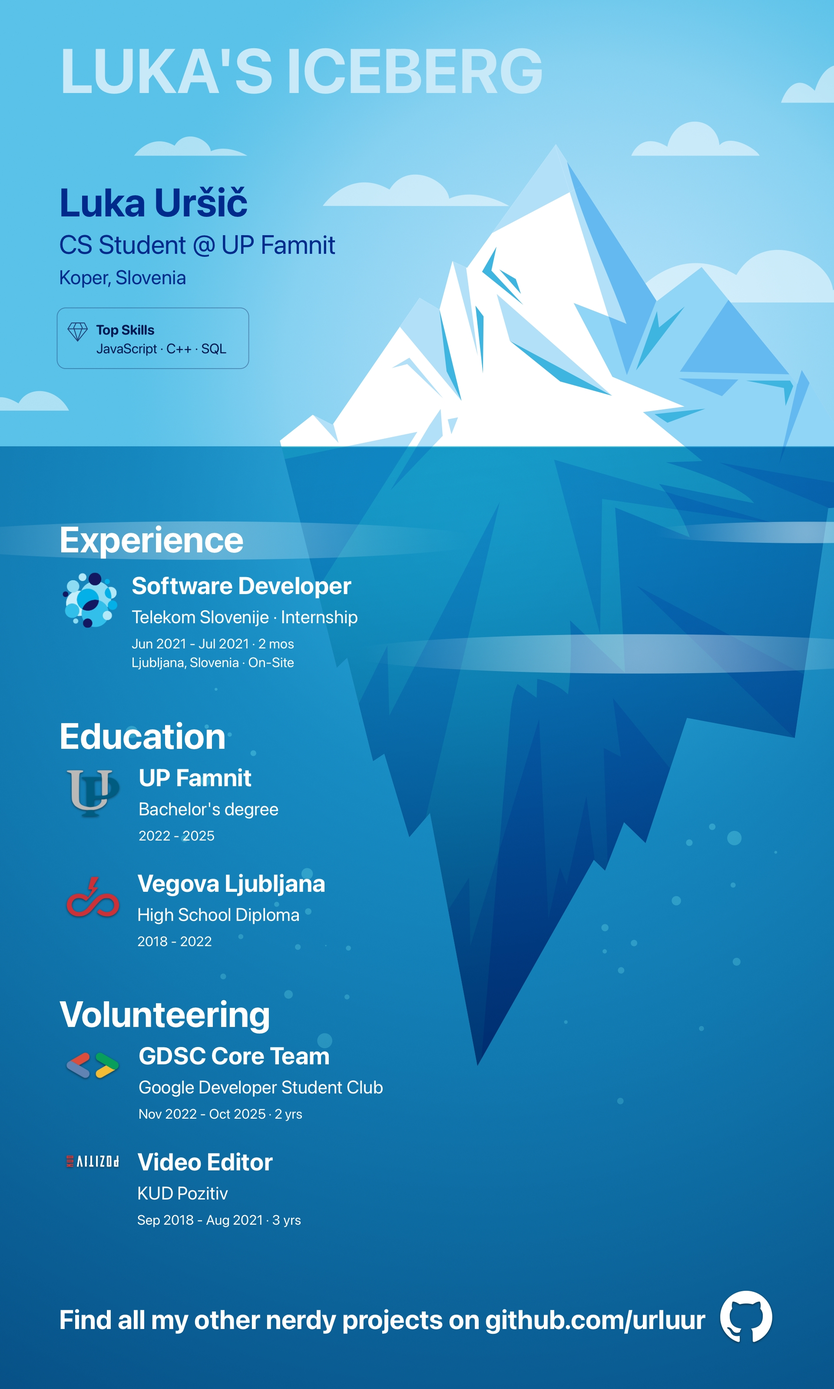
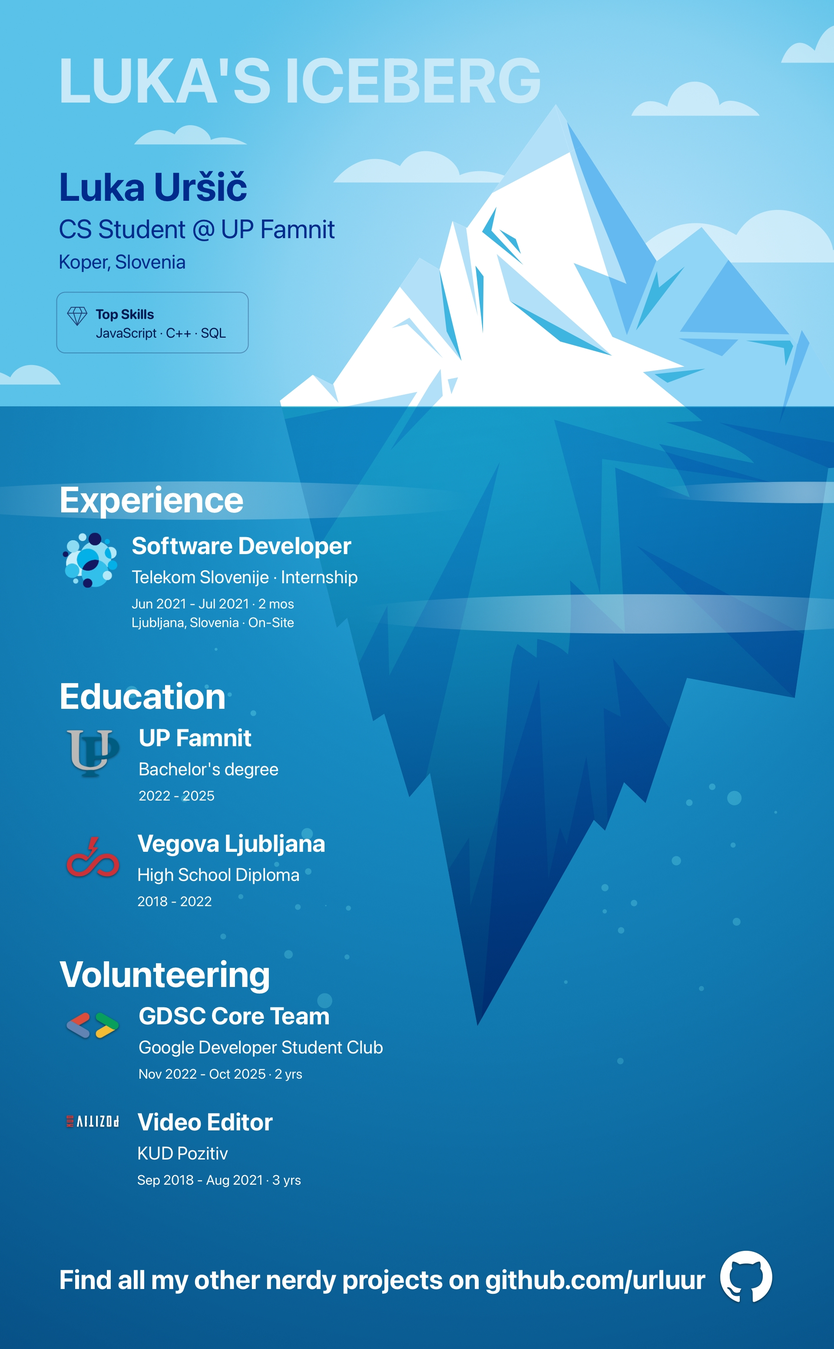
remove the margins

diff --git a/docs/index.html b/docs/index.html
@@ -4,6 +4,12 @@
     <meta charset="UTF-8">
     <meta name="viewport" content="width=device-width, initial-scale=1.0">
     <title>Luka's Iceberg</title>
+    <style>
+        body {
+            margin: 0;
+            padding: 0;
+        }
+    </style>
 </head>
 <body>
     <div style="width: 100vw; height: 100vh; overflow-y: auto; margin: 0; padding: 0;">
